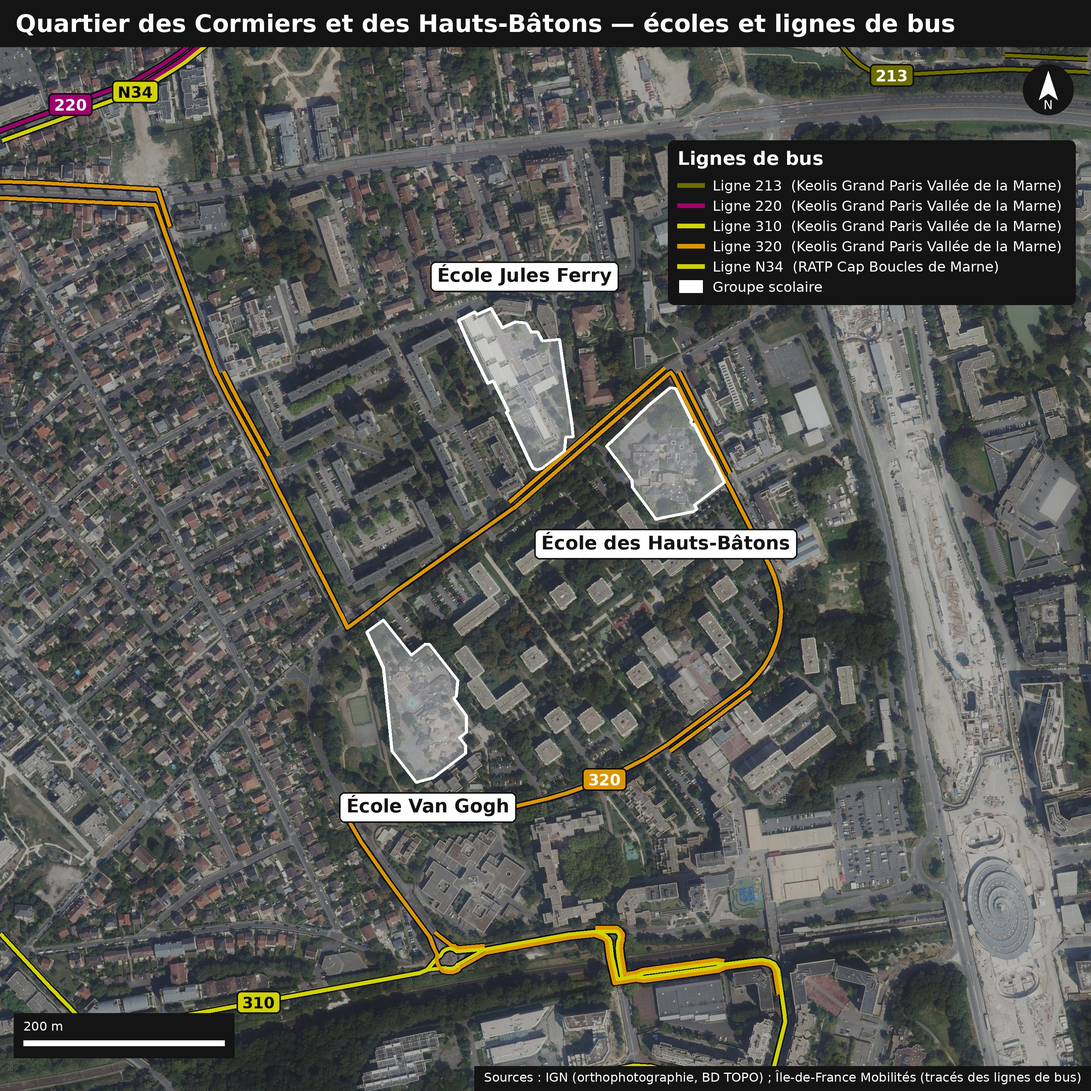
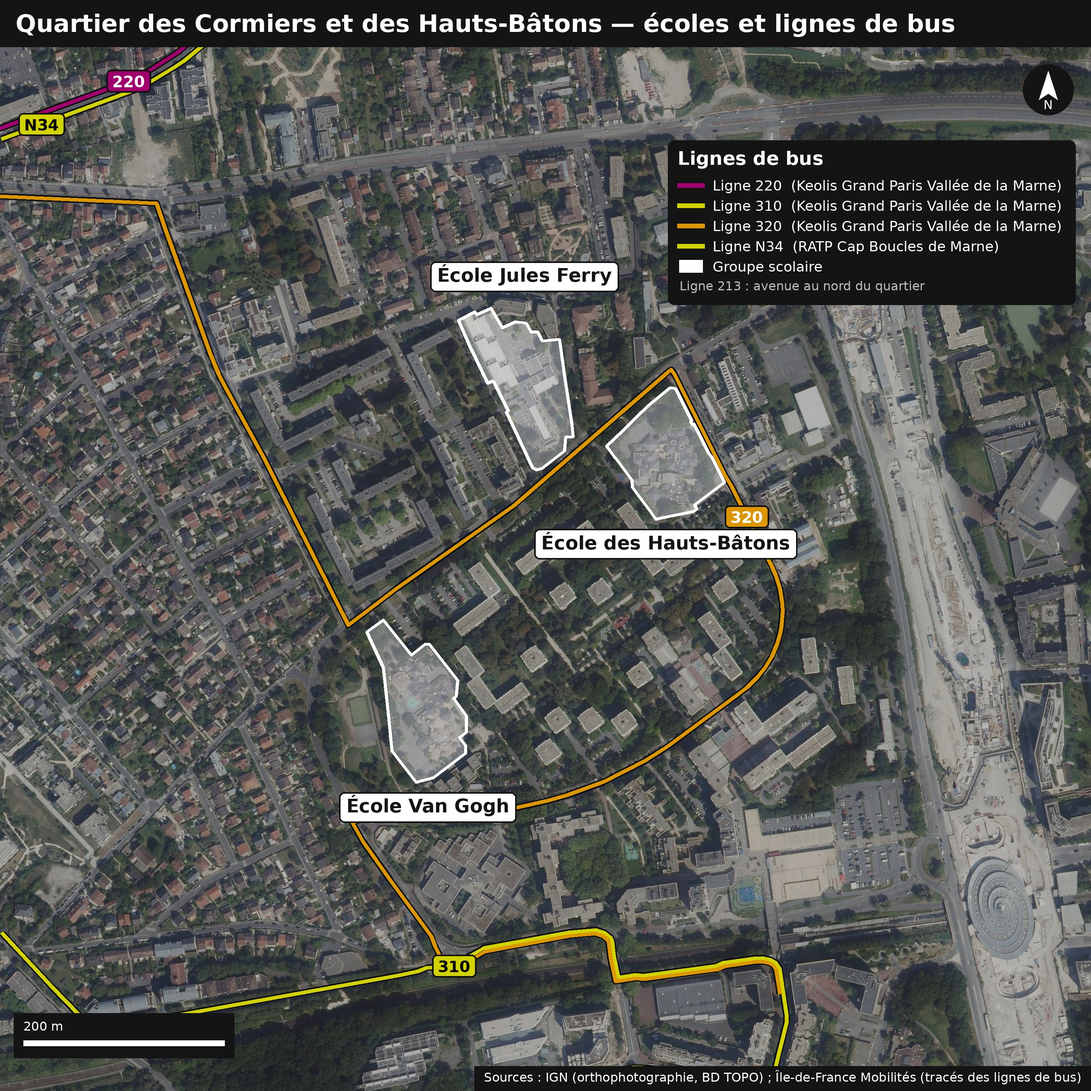
Carte des bus des Hauts-Bâtons : retrait de la ligne 213 et fusion des deux sens
La ligne 213 ne dessert pas le quartier (avenue au nord) : elle est retirée du
tracé et signalée dans la légende. Les deux sens de chaque ligne sont fusionnés
en un seul trait, sauf là où ils s'écartent de plus de 25 m.

Claude-Session: https://claude.ai/code/session_015iG17KAMyeGveFkCqMypqJ

diff --git a/src/cartographie/annoter_ecoles_bus.py b/src/cartographie/annoter_ecoles_bus.py
@@ -27,11 +27,23 @@ img = Image.alpha_composite(img, Image.new('RGBA', img.size, (0, 0, 0, 60)))
 cadre = box(0, 0, W, H)
 
 # --- Lignes de bus ---------------------------------------------------------
+def segments(geom):
+    if geom.geom_type == 'LineString': return [geom]
+    return [g for g in getattr(geom, 'geoms', []) if g.geom_type == 'LineString']
 lignes = []
+EXCLUES = {'213'}          # passe sur l'avenue au nord, ne dessert pas le quartier
 for f in json.load(open('bus_large.geojson'))['features']:
+    if f['properties']['linename'] in EXCLUES: continue
     g = f['geometry']
     parts = g['coordinates'] if g['type'] == 'MultiLineString' else [g['coordinates']]
-    geom = MultiLineString([[px(*c) for c in p] for p in parts]).intersection(cadre)
+    # fusion des deux sens : on garde le premier tracé, et du second seulement ce qui s'en écarte de plus de 25 m
+    lignes_px = [LineString([px(*c) for c in p]) for p in parts]
+    base = lignes_px[0]; seuil = 25 / ((bbox[2] - bbox[0]) * math.cos(math.radians(48.846)) / W)
+    morceaux = [base]
+    for autre in lignes_px[1:]:
+        reste = autre.difference(base.buffer(seuil))
+        morceaux += [m for m in segments(reste) if m.length > seuil * 2]
+    geom = MultiLineString([list(m.coords) for m in morceaux]).intersection(cadre)
     if geom.is_empty or geom.length < 50:
         continue
     p = f['properties']
@@ -117,7 +129,7 @@ d.text((40, 24), "Quartier des Cormiers et des Hauts-Bâtons — écoles et lign
 lh = 52
 lw = 40 + max(d.textlength(f"Ligne {l['nom']}  ({l['op']})", font=f_leg) for l in lignes) + 110
 lx, ly = W - lw - 40, 360
-d.rounded_rectangle([lx, ly, lx + lw, ly + 110 + lh * (len(lignes) + 1)], radius=16, fill=(20, 20, 20, 235))
+d.rounded_rectangle([lx, ly, lx + lw, ly + 110 + lh * (len(lignes) + 2)], radius=16, fill=(20, 20, 20, 235))
 d.text((lx + 25, ly + 18), "Lignes de bus", font=f_lab, fill=(255, 255, 255))
 for i, l in enumerate(lignes):
     y = ly + 95 + i * lh
@@ -126,6 +138,7 @@ for i, l in enumerate(lignes):
 y = ly + 95 + len(lignes) * lh
 d.rectangle([lx + 30, y + 4, lx + 90, y + 36], fill=(255, 255, 255, 120), outline=(255, 255, 255), width=5)
 d.text((lx + 115, y), "Groupe scolaire", font=f_leg, fill=(255, 255, 255))
+d.text((lx + 30, y + lh), "Ligne 213 : avenue au nord du quartier", font=ImageFont.truetype(N, 32), fill=(190, 190, 190))
 # échelle
 mpp = (bbox[2] - bbox[0]) * math.cos(math.radians(48.846)) / W; L = 200 / mpp
 x0, y0 = 60, H - 130
